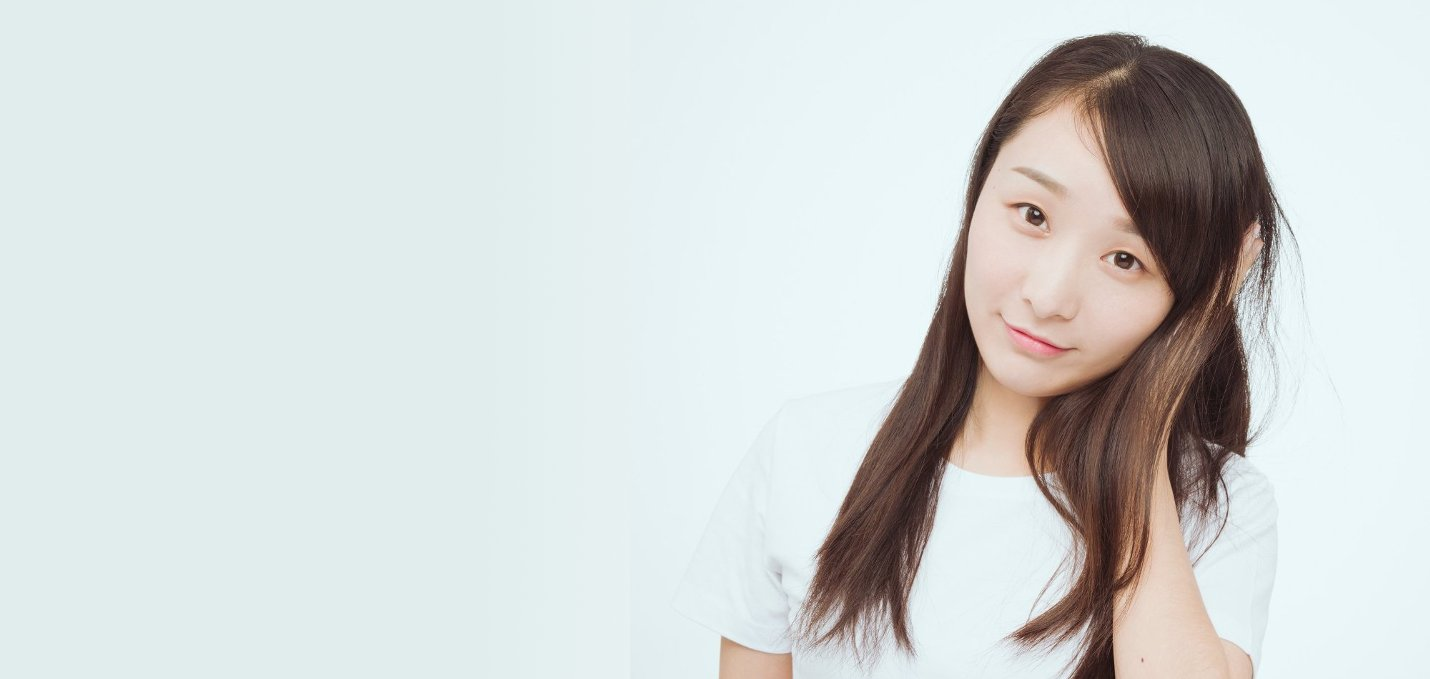
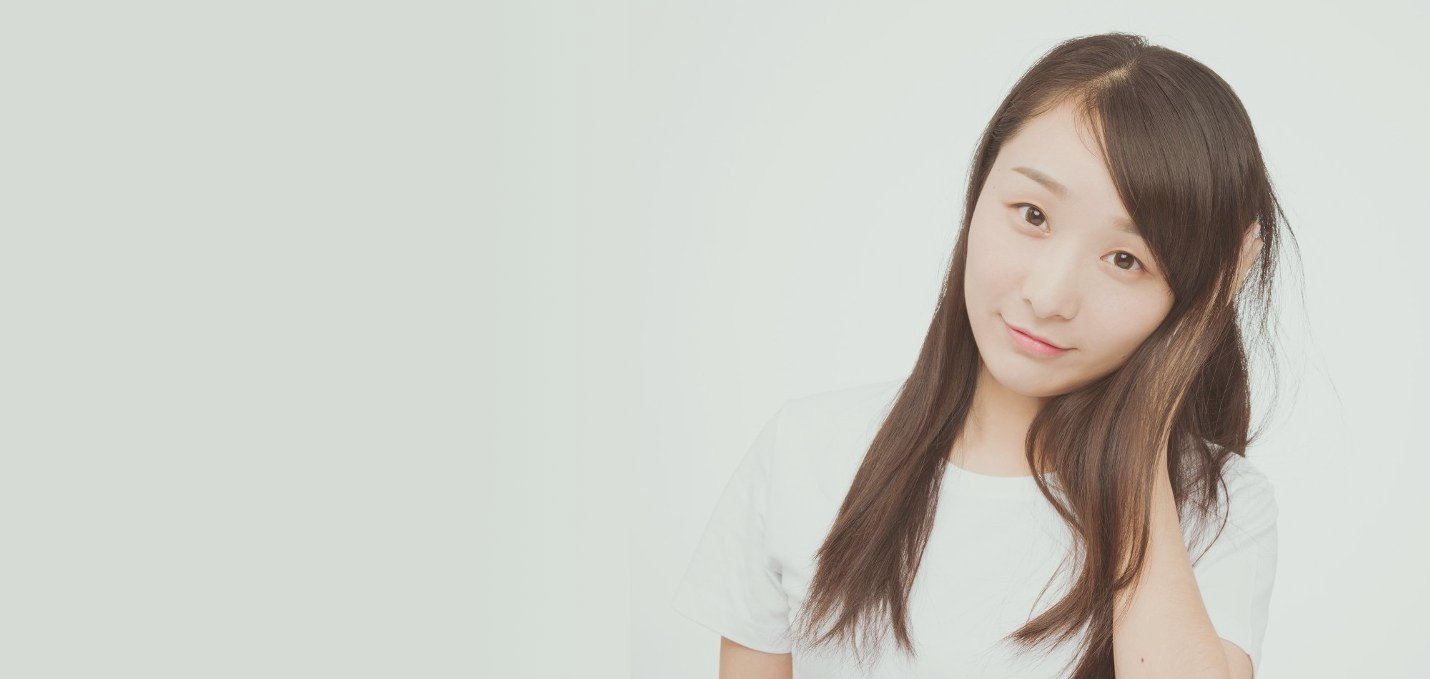
add a picture

diff --git a/dingxueyang.html b/dingxueyang.html
@@ -5,7 +5,7 @@
 	<title>丁雪阳</title>
 	<meta name="keywords" content="丁雪阳 resume 简历 个性展示 博客 教育">
 	<meta name="description" content="丁雪阳的个人博客，个性展示。作为一名英语教师，写一写个人的教育总结，教育理念，个人经历。。。">
-	<meta name="viewport" content="width=device-width,initia-scale=1.0,user-scalable=no">
+	<meta name="viewport" content="width=device-width,initial-scale=1.0,user-scalable=no">
 	<link rel="stylesheet" type="text/css" href="./main.css">
 	<script type="text/javascript" src="./main.js"></script>
 </head>
@@ -21,7 +21,6 @@
 		</div>
 	</div>
 	<div class="content">
-		<div class="shadow"></div>
 		<div class="c-content">
 			<div class="logo">
 				<span>HOME</span>

diff --git a/main.css b/main.css
@@ -59,17 +59,10 @@ html,body{
 .content{
 	position: relative;
 	width:100%;
-	height:670px;
-	background:url("web-xueyang2.jpg") right top no-repeat;
+	height:1080px;
+	background:url("web-xueyang1.jpg") center top no-repeat;
 }
-.content .shadow{
-	position:absolute;
-	top:0;
-	bottom:0;
-	width:100%;
-	background-color:rgba(170,150,120,0.2);
 
-}
 .content .c-content{
 	position:relative;
 	width:1200px;
